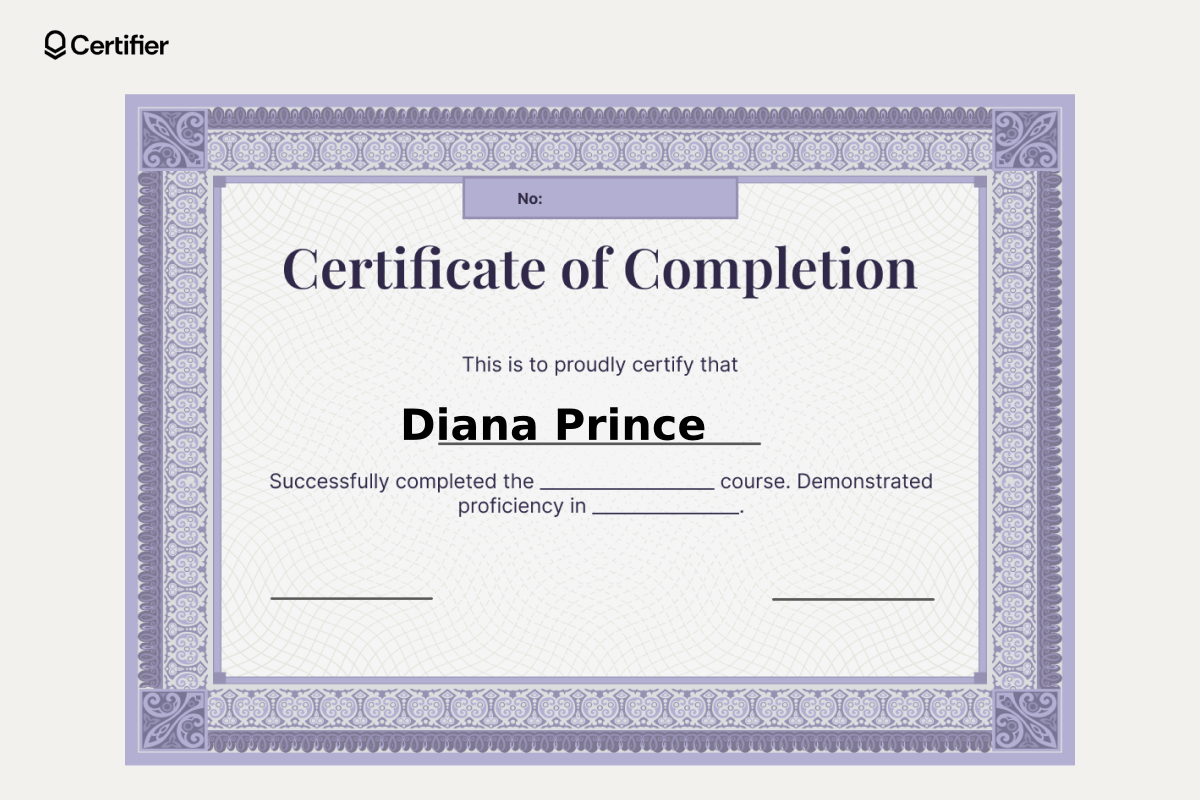
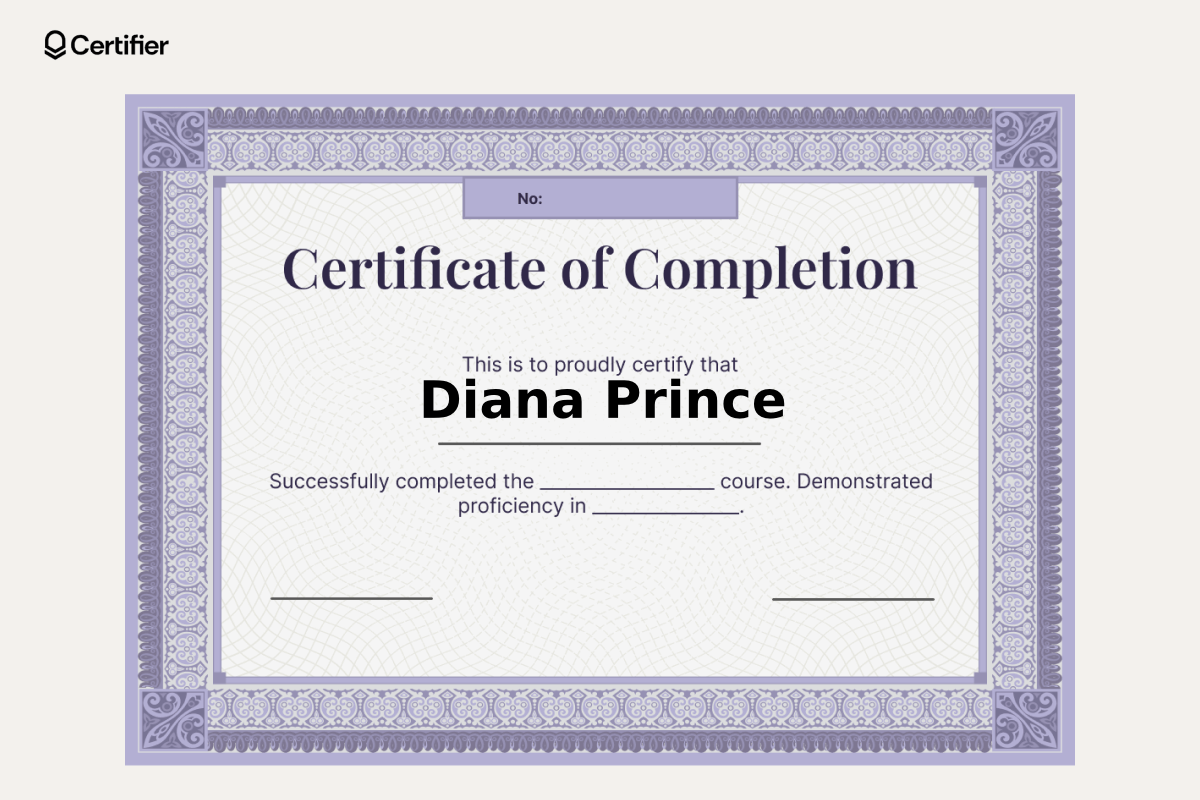
Now texts centers the right way

Changed region(s): [[0.3392, 0.4688, 0.6783, 0.5625]]

diff --git a/src/csvexcelparser.rs b/src/csvexcelparser.rs
@@ -7,8 +7,11 @@ use std::io::{self, Write};
 use std::sync::atomic::{AtomicUsize, Ordering};
 use std::sync::Arc;
 use rayon::prelude::*;
+use rusttype::{Font, Scale, point};
+
 use crate::editpng::add_text_with_custom_options;
 use crate::analysis::analyze_png_file;
+
 
 // Function to get user input
 fn get_user_input(prompt: &str) -> String {
@@ -380,6 +383,40 @@ pub fn select_font_file() -> Result<String, String> {
     }
 }
 
+// Helper function to calculate text size
+fn calculate_text_size(font: &Font, scale: Scale, text: &str) -> (i32, i32) {
+    let v_metrics = font.v_metrics(scale);
+    let glyphs: Vec<_> = font.layout(text, scale, point(0.0, 0.0 + v_metrics.ascent)).collect();
+
+    if glyphs.is_empty() {
+        return (0, 0);
+    }
+
+    let min_x = glyphs
+        .iter()
+        .filter_map(|g| g.pixel_bounding_box().map(|b| b.min.x))
+        .min()
+        .unwrap_or(0);
+    
+    let max_x = glyphs
+        .iter()
+        .filter_map(|g| g.pixel_bounding_box().map(|b| b.max.x))
+        .max()
+        .unwrap_or(0);
+
+    let width = max_x - min_x;
+    let height = (v_metrics.ascent - v_metrics.descent).ceil() as i32;
+
+    (width, height)
+}
+
+// Helper function to load font data
+fn load_font_data(font_filename: &str) -> Result<Vec<u8>> {
+    let font_path = format!("assets/{}", font_filename);
+    std::fs::read(&font_path)
+        .with_context(|| format!("Failed to read font file: {}", font_path))
+}
+
 pub fn generate_certificates_batch(
     template_path: &str,
     output_dir: &str,
@@ -393,12 +430,19 @@ pub fn generate_certificates_batch(
     std::fs::create_dir_all(output_dir)
         .with_context(|| format!("Failed to create output directory: {}", output_dir))?;
     
+    // Load font once for text size calculations
+    let font_data = load_font_data(font_filename)?;
+    let font = Font::try_from_bytes(&font_data)
+        .ok_or_else(|| anyhow::anyhow!("Failed to load font: {}", font_filename))?;
+    
+    let scale = Scale::uniform(font_size);
     let total = names.len();
     let completed = Arc::new(AtomicUsize::new(0));
     
     println!("\n🎓 Generating {} certificates in parallel using {} cores...", 
              total, 
              rayon::current_num_threads());
+    println!("🎯 Text will be centered around coordinates ({}, {})", x_pos, y_pos);
     
     let results: Vec<Result<(), anyhow::Error>> = names
         .par_iter()
@@ -408,12 +452,19 @@ pub fn generate_certificates_batch(
             let output_filename = format!("{}/certificate_{}.png", output_dir, 
                                         name.replace(" ", "_").replace("/", "_").replace("\\", "_"));
             
+            // Calculate text size for centering
+            let (text_width, text_height) = calculate_text_size(&font, scale, name);
+            
+            // Calculate centered position
+            let centered_x = x_pos - text_width / 2;
+            let centered_y = y_pos - text_height / 2;
+            
             let result = add_text_with_custom_options(
                 template_path,
                 &output_filename,
                 name,
-                x_pos,
-                y_pos,
+                centered_x,  // Use centered coordinates
+                centered_y,  // Use centered coordinates
                 font_filename,
                 font_size,
                 hex_color,
@@ -424,7 +475,8 @@ pub fn generate_certificates_batch(
             
             match result {
                 Ok(()) => {
-                    println!("✅ [{:6.2}%] Generated: {}", progress, name);
+                    println!("✅ [{:6.2}%] Generated: {} (centered at {}, {})", 
+                            progress, name, centered_x, centered_y);
                     Ok(())
                 }
                 Err(e) => {
@@ -441,6 +493,7 @@ pub fn generate_certificates_batch(
     
     println!("\n🎉 Parallel certificate generation complete!");
     println!("⚡ Used {} CPU cores", rayon::current_num_threads());
+    println!("🎯 All text was centered around ({}, {})", x_pos, y_pos);
     println!("✅ Successfully generated: {} certificates", success_count);
     if error_count > 0 {
         println!("❌ Failed to generate: {} certificates", error_count);
